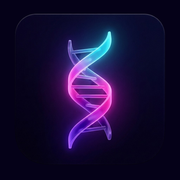
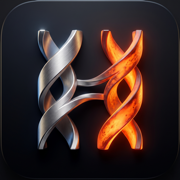
feat(auth): ember/platinum brand identity, native-durable iOS session, password recovery
- Logo: regenerate web icons (favicon / apple-touch / PWA / sidebar) from the new
  premium HELIX icon; HelixMark now renders that identity on login + splash.
- iOS never-logout: Supabase session persists to Capacitor Preferences
  (non-evictable) with a localStorage mirror for instant optimistic paint —
  fixes WKWebView ITP evicting the token after ~7 idle days. Auto-migrates an
  existing WebView session on first launch.
- Password recovery: new /auth/update-password route catches the recovery token;
  "Forgot password?" on login sends the reset email; AuthGate treats all /auth/*
  as public so the recovery session can establish.

Claude-Session: https://claude.ai/code/session_01LWYhSU4wTiy4psmjAjanoW

diff --git a/src/app/auth/update-password/page.tsx b/src/app/auth/update-password/page.tsx
@@ -1,0 +1,129 @@
+'use client'
+
+import { useEffect, useState } from 'react'
+import { useRouter } from 'next/navigation'
+import { supabase } from '@/lib/supabase/client'
+import { KeyRound, Check, ShieldAlert } from 'lucide-react'
+import { HelixMark } from '@/components/HelixMark'
+
+/**
+ * Update Password — the destination for the Supabase recovery email.
+ *
+ * The recovery link lands here with `#access_token=…&type=recovery` in the URL.
+ * `detectSessionInUrl` (set on the client) parses that hash and establishes a
+ * short-lived recovery session, so `supabase.auth.updateUser({ password })` is
+ * authorized. We surface an expired/invalid-link error if the hash carries one.
+ *
+ * NOTE: the app's deploy URL + `/auth/update-password` must be in Supabase →
+ * Authentication → URL Configuration → Redirect URLs for the link to resolve.
+ */
+export default function UpdatePasswordPage() {
+  const router = useRouter()
+  const [password, setPassword] = useState('')
+  const [confirm, setConfirm] = useState('')
+  const [loading, setLoading] = useState(false)
+  const [done, setDone] = useState(false)
+  const [error, setError] = useState<string | null>(null)
+  const [ready, setReady] = useState(false)
+
+  // Surface an expired/used link (Supabase puts it in the URL hash), and confirm
+  // a recovery session is present before we let the user submit.
+  useEffect(() => {
+    const hash = typeof window !== 'undefined' ? window.location.hash : ''
+    if (hash.includes('error')) {
+      const params = new URLSearchParams(hash.slice(1))
+      setError(params.get('error_description')?.replace(/\+/g, ' ') ?? 'This recovery link is invalid or has expired.')
+    }
+    const { data: { subscription } } = supabase.auth.onAuthStateChange((event) => {
+      if (event === 'PASSWORD_RECOVERY' || event === 'SIGNED_IN') setReady(true)
+    })
+    supabase.auth.getSession().then(({ data: { session } }) => { if (session) setReady(true) })
+    return () => subscription.unsubscribe()
+  }, [])
+
+  async function handleSubmit(e: React.FormEvent) {
+    e.preventDefault()
+    setError(null)
+    if (password.length < 8) { setError('Use at least 8 characters.'); return }
+    if (password !== confirm) { setError('Passwords do not match.'); return }
+    setLoading(true)
+    const { error: updateError } = await supabase.auth.updateUser({ password })
+    if (updateError) { setError(updateError.message); setLoading(false); return }
+    setDone(true)
+    setTimeout(() => { router.push('/'); router.refresh() }, 1400)
+  }
+
+  const inputClass =
+    'w-full rounded-xl border border-white/[0.10] bg-white/[0.03] px-4 py-3 text-text text-sm ' +
+    'placeholder:text-muted/60 focus:outline-none focus:border-[#E0703C]/60 focus:ring-2 focus:ring-[#E0703C]/25 ' +
+    'transition-[border-color,box-shadow] duration-200'
+
+  return (
+    <main className="relative min-h-screen flex items-center justify-center p-6 overflow-hidden bg-[#0C0D11]">
+      <div aria-hidden className="pointer-events-none absolute inset-0">
+        <div className="absolute -top-1/4 left-1/2 -translate-x-1/2 w-[120vw] h-[60vh] rounded-full blur-[120px] opacity-[0.18]"
+          style={{ background: 'radial-gradient(circle, #3D7ABC 0%, transparent 65%)' }} />
+        <div className="absolute -bottom-1/3 left-1/2 -translate-x-1/2 w-[110vw] h-[55vh] rounded-full blur-[120px] opacity-[0.22]"
+          style={{ background: 'radial-gradient(circle, #E0703C 0%, transparent 65%)' }} />
+      </div>
+
+      <div className="relative w-full max-w-sm">
+        <div className="flex flex-col items-center text-center mb-8">
+          <div className="relative mb-4">
+            <div aria-hidden className="absolute inset-0 blur-2xl opacity-60"
+              style={{ background: 'radial-gradient(circle, rgba(224,112,60,0.5), transparent 70%)' }} />
+            <HelixMark className="relative w-16 h-16" />
+          </div>
+          <h1 className="font-heading text-2xl font-black tracking-[0.08em] text-text">New Password</h1>
+          <p className="text-xs text-muted mt-1.5 tracking-wide">Set a new password for your account.</p>
+        </div>
+
+        <div className="rounded-2xl border border-white/[0.08] bg-white/[0.025] backdrop-blur-xl p-6 shadow-[0_24px_80px_rgba(0,0,0,0.55)]">
+          {done ? (
+            <div className="flex flex-col items-center gap-3 py-4 text-center">
+              <span className="w-12 h-12 rounded-full flex items-center justify-center"
+                style={{ background: 'rgba(62,158,122,0.15)', color: '#3E9E7A' }}>
+                <Check className="w-6 h-6" aria-hidden="true" />
+              </span>
+              <p className="text-text font-semibold">Password updated</p>
+              <p className="text-xs text-muted">Signing you in…</p>
+            </div>
+          ) : (
+            <form onSubmit={handleSubmit} className="space-y-4">
+              <div className="space-y-1.5">
+                <label htmlFor="new-password" className="text-xs font-semibold uppercase tracking-wide text-muted">New password</label>
+                <input id="new-password" name="new-password" type="password" value={password}
+                  onChange={(e) => setPassword(e.target.value)} placeholder="••••••••" required
+                  autoComplete="new-password" className={inputClass} />
+              </div>
+              <div className="space-y-1.5">
+                <label htmlFor="confirm-password" className="text-xs font-semibold uppercase tracking-wide text-muted">Confirm password</label>
+                <input id="confirm-password" name="confirm-password" type="password" value={confirm}
+                  onChange={(e) => setConfirm(e.target.value)} placeholder="••••••••" required
+                  autoComplete="new-password" className={inputClass} />
+              </div>
+
+              {error && (
+                <p className="text-danger text-sm flex items-start gap-1.5" role="alert">
+                  <ShieldAlert className="w-4 h-4 mt-0.5 shrink-0" aria-hidden="true" /> <span>{error}</span>
+                </p>
+              )}
+              {!ready && !error && (
+                <p className="text-[11px] text-muted/80">Open this page from your recovery email to continue.</p>
+              )}
+
+              <button type="submit" disabled={loading}
+                className="w-full min-h-[48px] rounded-xl font-bold text-sm flex items-center justify-center gap-2
+                           text-white transition-transform active:scale-[0.98] disabled:opacity-60
+                           shadow-[0_8px_28px_rgba(224,112,60,0.35)]"
+                style={{ background: 'linear-gradient(135deg, #E0703C 0%, #B4522A 100%)' }}>
+                <KeyRound className="w-4 h-4" aria-hidden="true" />
+                {loading ? 'Updating…' : 'Update password'}
+              </button>
+            </form>
+          )}
+        </div>
+      </div>
+    </main>
+  )
+}

diff --git a/src/lib/supabase/client.ts b/src/lib/supabase/client.ts
@@ -1,4 +1,5 @@
 import { createClient } from '@supabase/supabase-js'
+import { Capacitor } from '@capacitor/core'
 import type { Database } from './types'
 
 // Browser-side Supabase client (uses anon key, subject to RLS)
@@ -10,6 +11,51 @@ import type { Database } from './types'
 type SupabaseClientType = ReturnType<typeof createClient<Database>>
 
 let _supabase: SupabaseClientType | undefined
+
+const isNative = (): boolean => {
+  try { return Capacitor.isNativePlatform() } catch { return false }
+}
+
+/**
+ * Native-durable auth storage. iOS WKWebView evicts `localStorage` under storage
+ * pressure / ITP (~7 idle days) — that eviction is why the standalone app used to
+ * silently sign the user out. Capacitor Preferences persists to the native store
+ * (NSUserDefaults / Keychain-adjacent) which the WebView cannot evict, so a signed-
+ * in session survives indefinitely and `autoRefreshToken` keeps the JWT alive off
+ * the (non-expiring) refresh token.
+ *
+ * We also mirror into `localStorage`: it's the fast, synchronous source that lets
+ * `AuthGate` paint optimistically on launch. If the mirror is ever evicted, the
+ * next `getItem` transparently restores it from Preferences (and re-mirrors), so
+ * the worst case after an eviction is a single brief splash — never a logout.
+ */
+const nativeStorage = {
+  async getItem(key: string): Promise<string | null> {
+    const { Preferences } = await import('@capacitor/preferences')
+    const { value } = await Preferences.get({ key })
+    if (value != null) {
+      try { window.localStorage.setItem(key, value) } catch { /* mirror best-effort */ }
+      return value
+    }
+    // First native launch after this ships: migrate a session that still lives in
+    // the WebView's localStorage into durable storage so nobody has to re-login.
+    try {
+      const legacy = window.localStorage.getItem(key)
+      if (legacy != null) { await Preferences.set({ key, value: legacy }); return legacy }
+    } catch { /* ignore */ }
+    return null
+  },
+  async setItem(key: string, value: string): Promise<void> {
+    const { Preferences } = await import('@capacitor/preferences')
+    await Preferences.set({ key, value })
+    try { window.localStorage.setItem(key, value) } catch { /* mirror best-effort */ }
+  },
+  async removeItem(key: string): Promise<void> {
+    const { Preferences } = await import('@capacitor/preferences')
+    await Preferences.remove({ key })
+    try { window.localStorage.removeItem(key) } catch { /* ignore */ }
+  },
+}
 
 function initSupabase(): SupabaseClientType {
   if (_supabase) return _supabase
@@ -28,6 +74,9 @@ function initSupabase(): SupabaseClientType {
       autoRefreshToken: true,
       persistSession: true,
       detectSessionInUrl: true,
+      // Native → durable Preferences (+ localStorage mirror); web → supabase's
+      // default localStorage (undefined leaves the default in place).
+      storage: isNative() ? nativeStorage : undefined,
     },
   })
 

diff --git a/src/components/HelixMark.tsx b/src/components/HelixMark.tsx
@@ -1,45 +1,26 @@
 'use client'
 
-import { useId } from 'react'
+import Image from 'next/image'
 
 /**
- * HelixMark — two interleaved neon strands (teal + cyan) forming an "H" with
- * three base-pair rungs. Glass depth via a back shadow + specular node.
- * Pure (gradient IDs via useId). Size with `h-[…em]` so it tracks the title.
+ * HelixMark — the HELIX brandmark. Renders the premium app icon (two interlocking
+ * helical ribbons: brushed platinum + molten ember, forming an implied H). The
+ * source is the same asset shipped as the iOS/PWA icon, so the login hero, the
+ * loading splash, and the home-screen icon are always one identity.
+ *
+ * Sized purely by `className` (e.g. `w-16 h-16`) so it tracks whatever it sits in;
+ * the intrinsic 512² keeps it razor-sharp at any render size.
  */
 export function HelixMark({ className = 'w-6 h-6' }: { className?: string }) {
-  const uid = useId().replace(/[:]/g, '')
-  const g = `hx${uid}`
   return (
-    <svg
-      className={className}
-      viewBox="0 0 24 24"
-      fill="none"
-      strokeLinecap="round"
+    <Image
+      src="/icon-512.png"
+      alt=""
+      width={512}
+      height={512}
+      priority
+      className={`${className} rounded-[22%] object-contain select-none`}
       aria-hidden="true"
-      style={{ filter: 'drop-shadow(0 2px 3px rgba(0,0,0,0.5)) drop-shadow(0 0 7px rgba(56,225,255,0.5))' }}
-    >
-      <defs>
-        <linearGradient id={`${g}a`} x1="6" y1="22" x2="10" y2="2" gradientUnits="userSpaceOnUse">
-          <stop offset="0%" stopColor="#E0703C" /><stop offset="100%" stopColor="#3E9E7A" />
-        </linearGradient>
-        <linearGradient id={`${g}b`} x1="14" y1="2" x2="18" y2="22" gradientUnits="userSpaceOnUse">
-          <stop offset="0%" stopColor="#8E9AAC" /><stop offset="100%" stopColor="#B4522A" />
-        </linearGradient>
-      </defs>
-
-      {/* Depth shadow */}
-      <path d="M8.6 3.6 C10.6 8.4, 6.6 10.4, 8.6 15.2 C9.6 17.6, 9.6 19.2, 8.6 21.6" stroke="rgba(0,0,0,0.4)" strokeWidth="2.4" />
-      {/* Left strand (teal) — S-curve */}
-      <path d="M8 3 C10 7.8, 6 9.8, 8 14.6 C9 17, 9 18.6, 8 21" stroke={`url(#${g}a)`} strokeWidth="2.1" />
-      {/* Right strand (cyan) — mirrored */}
-      <path d="M16 3 C14 7.8, 18 9.8, 16 14.6 C15 17, 15 18.6, 16 21" stroke={`url(#${g}b)`} strokeWidth="2.1" />
-      {/* Base-pair rungs (the H crossbars) */}
-      <path d="M8.9 7.2 L15.1 7.2" stroke="rgba(201,205,214,0.85)" strokeWidth="1.5" />
-      <path d="M7.4 12 L16.6 12" stroke="rgba(236,238,242,0.95)" strokeWidth="1.8" />
-      <path d="M8.9 16.8 L15.1 16.8" stroke="rgba(201,205,214,0.85)" strokeWidth="1.5" />
-      {/* Specular node */}
-      <circle cx="16" cy="3.4" r="1" fill="#ECEEF2" />
-    </svg>
+    />
   )
 }

diff --git a/src/app/auth/page.tsx b/src/app/auth/page.tsx
@@ -27,6 +27,7 @@ export default function AuthPage() {
   const [loading, setLoading] = useState(false)
   const [quickLoading, setQuickLoading] = useState(false)
   const [error, setError] = useState<string | null>(null)
+  const [resetMsg, setResetMsg] = useState<string | null>(null)
 
   function goHome() {
     router.push('/')
@@ -57,6 +58,18 @@ export default function AuthPage() {
     setError(null)
     const ok = await signIn(QUICK_EMAIL, QUICK_PASSWORD)
     if (!ok) setQuickLoading(false)
+  }
+
+  async function handleForgot() {
+    setError(null)
+    setResetMsg(null)
+    const mail = email.trim()
+    if (!mail) { setError('Enter your email above, then tap “Forgot password?”'); return }
+    const { error: resetError } = await supabase.auth.resetPasswordForEmail(mail, {
+      redirectTo: `${window.location.origin}/auth/update-password`,
+    })
+    if (resetError) { setError(resetError.message); return }
+    setResetMsg('Check your email for a reset link.')
   }
 
   const inputClass =
@@ -130,9 +143,15 @@ export default function AuthPage() {
             </div>
 
             <div className="space-y-1.5">
-              <label htmlFor="password" className="text-xs font-semibold uppercase tracking-wide text-muted">
-                Password
-              </label>
+              <div className="flex items-center justify-between">
+                <label htmlFor="password" className="text-xs font-semibold uppercase tracking-wide text-muted">
+                  Password
+                </label>
+                <button type="button" onClick={handleForgot}
+                  className="text-[11px] font-medium text-muted hover:text-[#E0703C] transition-colors">
+                  Forgot password?
+                </button>
+              </div>
               <input
                 id="password"
                 name="password"
@@ -149,6 +168,11 @@ export default function AuthPage() {
             {error && (
               <p className="text-danger text-sm" role="alert">
                 {error}
+              </p>
+            )}
+            {resetMsg && (
+              <p className="text-success text-sm" role="status">
+                {resetMsg}
               </p>
             )}
 

diff --git a/src/components/providers/AuthGate.tsx b/src/components/providers/AuthGate.tsx
@@ -77,12 +77,14 @@ export function AuthGate({ children }: { children: React.ReactNode }) {
     }
   }, [])
 
-  // No session → the auth page is the only destination.
+  // No session → the auth page is the only destination. Every /auth/* route
+  // (sign-in AND the password-recovery flow) is public so a recovery link can
+  // establish its session before the gate resolves.
   useEffect(() => {
-    if (state === 'anon' && pathname !== '/auth') router.replace('/auth')
+    if (state === 'anon' && !pathname.startsWith('/auth')) router.replace('/auth')
   }, [state, pathname, router])
 
-  if (pathname === '/auth') return <>{children}</>
+  if (pathname.startsWith('/auth')) return <>{children}</>
   if (state === 'authed') return <>{children}</>
 
   // Resolving (≤ a few hundred ms from localStorage) or redirecting: branded splash.
